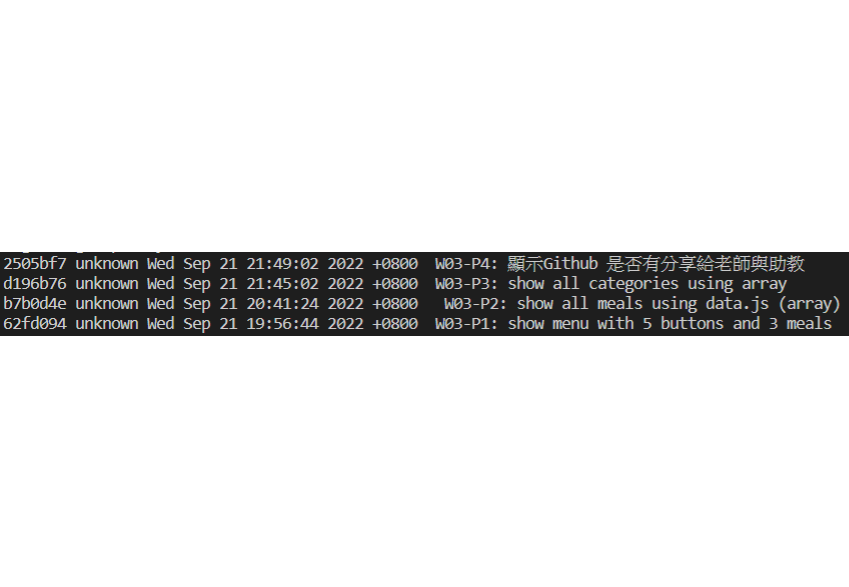
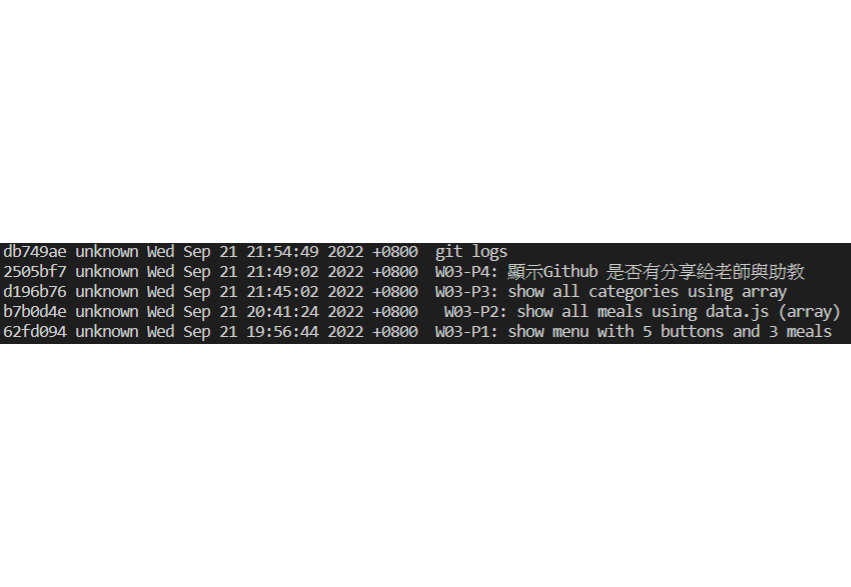
git logs

Changed region(s): [[0.0, 0.3986, 1.0, 0.6133]]

diff --git a/demo/md/w03_menu/w03.md b/demo/md/w03_menu/w03.md
@@ -13,3 +13,7 @@
 ### W03-P4: 顯示 Github 是否有分享給老師與助教
 
 ![](0921-4.png)
+
+### W03-logs: show all four logs done today
+
+![](0921-5.png)
